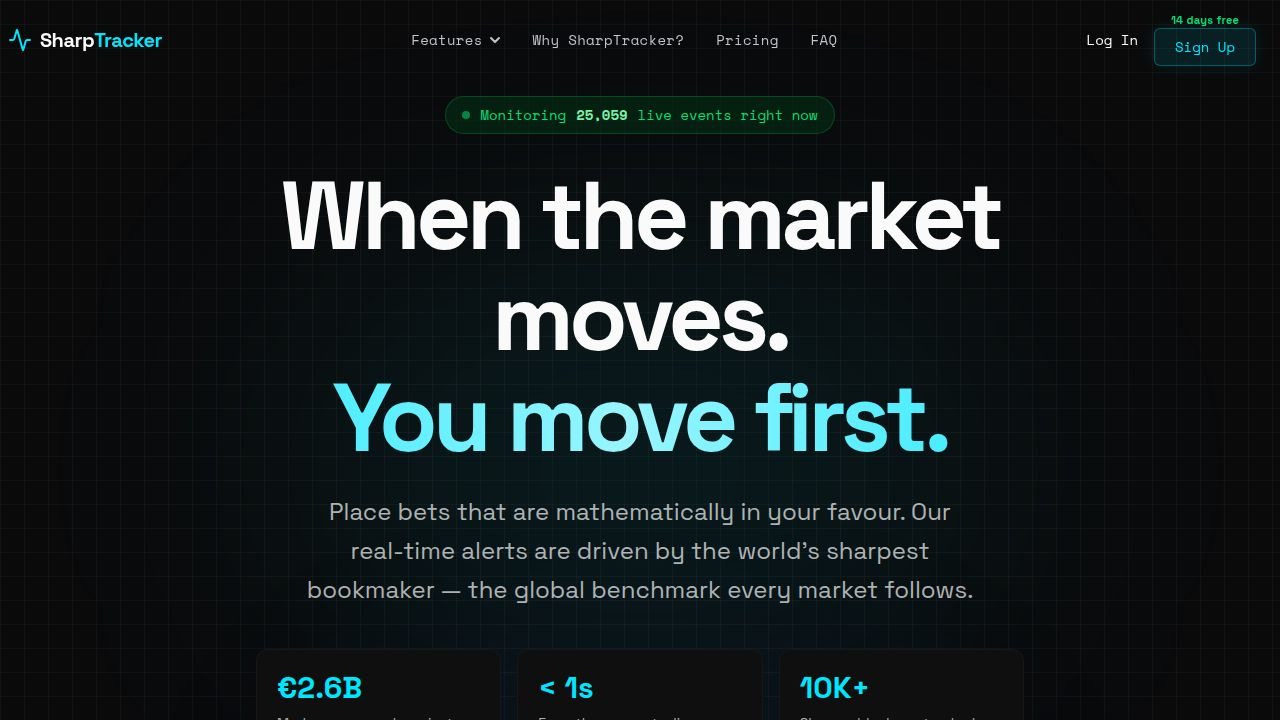
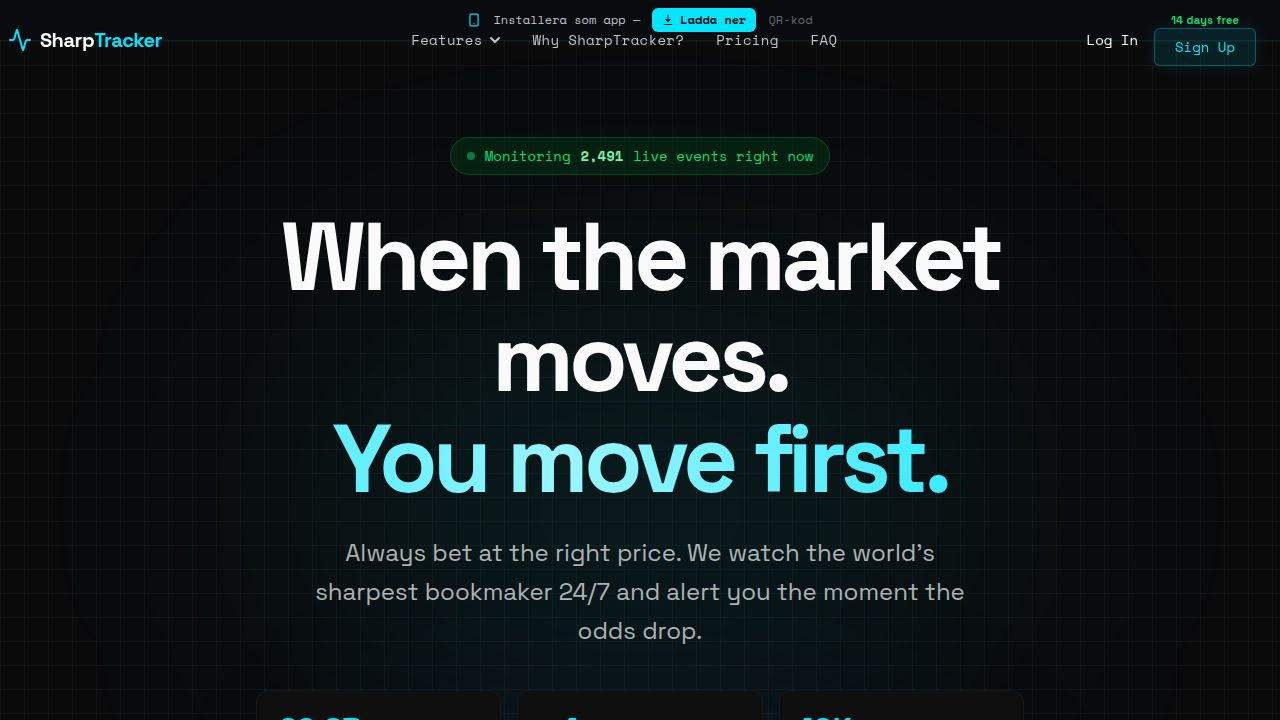
Add a prominent download button to install the web application
Enhance the landing page with a PWA install banner that includes a "Ladda ner" button to trigger native installation on supported browsers, and update the install modal to provide a similar direct installation option alongside the QR code.

Replit-Commit-Author: Agent
Replit-Commit-Session-Id: cb61762b-fd09-445e-b04e-2fa3f1b9b9b2
Replit-Commit-Checkpoint-Type: full_checkpoint
Replit-Commit-Event-Id: 24c28a29-0f7c-4e3b-a59e-2dac77a13e88
Replit-Commit-Screenshot-Url: https://storage.googleapis.com/screenshot-production-us-central1/84e61830-7611-4d35-8623-77d057b02e4e/cb61762b-fd09-445e-b04e-2fa3f1b9b9b2/oA3tUHl
Replit-Helium-Checkpoint-Created: true

diff --git a/artifacts/landing/src/InstallAppModal.tsx b/artifacts/landing/src/InstallAppModal.tsx
@@ -1,15 +1,23 @@
 import { useState, useEffect } from "react";
 import { QRCodeSVG } from "qrcode.react";
-import { X, Smartphone } from "lucide-react";
+import { X, Smartphone, Download } from "lucide-react";
 import { AnimatePresence, motion } from "framer-motion";
+
+interface BeforeInstallPromptEvent extends Event {
+  prompt(): Promise<void>;
+  userChoice: Promise<{ outcome: "accepted" | "dismissed" }>;
+}
 
 interface Props {
   open: boolean;
   onClose: () => void;
+  deferredPrompt?: BeforeInstallPromptEvent | null;
+  onNativeInstall?: () => Promise<void>;
 }
 
-export default function InstallAppModal({ open, onClose }: Props) {
+export default function InstallAppModal({ open, onClose, deferredPrompt, onNativeInstall }: Props) {
   const [appUrl, setAppUrl] = useState("");
+  const [installing, setInstalling] = useState(false);
 
   useEffect(() => {
     setAppUrl(window.location.origin + (import.meta.env.BASE_URL || "/"));
@@ -22,6 +30,16 @@ export default function InstallAppModal({ open, onClose }: Props) {
     return () => window.removeEventListener("keydown", onKey);
   }, [open, onClose]);
 
+  const handleNativeInstall = async () => {
+    if (!onNativeInstall) return;
+    setInstalling(true);
+    try {
+      await onNativeInstall();
+    } finally {
+      setInstalling(false);
+    }
+  };
+
   return (
     <AnimatePresence>
       {open && (
@@ -33,10 +51,8 @@ export default function InstallAppModal({ open, onClose }: Props) {
           transition={{ duration: 0.18 }}
           onClick={onClose}
         >
-          {/* Backdrop */}
           <div className="absolute inset-0 bg-black/70 backdrop-blur-sm" />
 
-          {/* Modal card */}
           <motion.div
             className="relative z-10 w-full max-w-sm bg-[#0d0e14] border border-white/10 rounded-2xl shadow-[0_24px_80px_rgba(0,0,0,0.8)] overflow-hidden"
             initial={{ scale: 0.92, opacity: 0, y: 16 }}
@@ -50,7 +66,7 @@ export default function InstallAppModal({ open, onClose }: Props) {
               <div className="flex items-center gap-2.5">
                 <img src="/icon-192.png" alt="SharpTracker" className="w-8 h-8 rounded-lg" />
                 <div>
-                  <p className="text-sm font-semibold text-foreground leading-tight">Install the app</p>
+                  <p className="text-sm font-semibold text-foreground leading-tight">Installera appen</p>
                   <p className="text-[11px] text-muted-foreground font-mono">sharptracker.io</p>
                 </div>
               </div>
@@ -62,16 +78,37 @@ export default function InstallAppModal({ open, onClose }: Props) {
               </button>
             </div>
 
+            {/* Native install button — shown when browser supports it */}
+            {deferredPrompt && (
+              <div className="px-5 pt-5">
+                <button
+                  onClick={handleNativeInstall}
+                  disabled={installing}
+                  className="w-full flex items-center justify-center gap-2 bg-primary hover:bg-primary/90 disabled:opacity-60 text-background font-semibold text-sm rounded-xl py-3 transition-colors"
+                >
+                  <Download className="w-4 h-4" />
+                  {installing ? "Installerar..." : "Installera SharpTracker"}
+                </button>
+                <div className="flex items-center gap-3 mt-4 mb-2">
+                  <div className="flex-1 h-px bg-white/8" />
+                  <span className="text-[10px] font-mono text-muted-foreground/50 uppercase tracking-widest">eller skanna QR</span>
+                  <div className="flex-1 h-px bg-white/8" />
+                </div>
+              </div>
+            )}
+
             {/* QR Code */}
-            <div className="flex flex-col items-center py-6 gap-3 px-5">
-              <p className="text-xs font-mono text-muted-foreground text-center mb-1">
-                Scan with your phone to open SharpTracker
-              </p>
+            <div className="flex flex-col items-center py-5 gap-3 px-5">
+              {!deferredPrompt && (
+                <p className="text-xs font-mono text-muted-foreground text-center mb-1">
+                  Skanna med din telefon för att öppna SharpTracker
+                </p>
+              )}
               <div className="bg-white rounded-xl p-3 shadow-lg">
                 {appUrl && (
                   <QRCodeSVG
                     value={appUrl}
-                    size={180}
+                    size={160}
                     bgColor="#ffffff"
                     fgColor="#0a0b0f"
                     level="H"
@@ -79,8 +116,8 @@ export default function InstallAppModal({ open, onClose }: Props) {
                       src: "/icon-192.png",
                       x: undefined,
                       y: undefined,
-                      height: 36,
-                      width: 36,
+                      height: 32,
+                      width: 32,
                       opacity: 1,
                       excavate: true,
                     }}
@@ -92,20 +129,20 @@ export default function InstallAppModal({ open, onClose }: Props) {
             {/* Install steps */}
             <div className="px-5 pb-6 space-y-3">
               <p className="text-[10px] font-mono text-muted-foreground/60 uppercase tracking-widest mb-2">
-                How to install
+                Hur man installerar (iOS / Safari)
               </p>
               {[
                 {
                   step: "1",
                   content: (
                     <>
-                      Tap{" "}
+                      Tryck på{" "}
                       <span className="inline-flex items-center justify-center w-6 h-6 bg-white/10 border border-white/15 rounded-md mx-0.5 align-middle">
                         <svg viewBox="0 0 24 24" fill="currentColor" className="w-3.5 h-3.5 text-foreground">
                           <path d="M12 2l-3 4h2v7h2V6h2l-3-4zm-6 14v3a1 1 0 001 1h10a1 1 0 001-1v-3h-2v2H8v-2H6z"/>
                         </svg>
                       </span>{" "}
-                      in the browser menu
+                      i webbläsarmenyn
                     </>
                   ),
                 },
@@ -113,9 +150,9 @@ export default function InstallAppModal({ open, onClose }: Props) {
                   step: "2",
                   content: (
                     <>
-                      Scroll down and tap{" "}
+                      Scrolla ner och tryck på{" "}
                       <span className="inline-flex items-center gap-1 bg-white/10 border border-white/15 rounded-md px-1.5 py-0.5 text-[11px] font-mono text-foreground align-middle mx-0.5">
-                        Add to Home Screen
+                        Lägg till på hemskärmen
                       </span>
                     </>
                   ),
@@ -124,9 +161,9 @@ export default function InstallAppModal({ open, onClose }: Props) {
                   step: "3",
                   content: (
                     <>
-                      Look for the{" "}
+                      Hitta{" "}
                       <img src="/icon-192.png" alt="" className="inline w-5 h-5 rounded-md align-middle mx-0.5" />{" "}
-                      icon on your home screen
+                      ikonen på din hemskärm
                     </>
                   ),
                 },
@@ -138,6 +175,16 @@ export default function InstallAppModal({ open, onClose }: Props) {
                   <p className="text-sm text-foreground/80 leading-snug">{content}</p>
                 </div>
               ))}
+            </div>
+
+            {/* Bottom note */}
+            <div className="px-5 pb-5">
+              <div className="flex items-center gap-2 rounded-xl bg-white/3 border border-white/6 px-3 py-2.5">
+                <Smartphone className="w-3.5 h-3.5 text-primary shrink-0" />
+                <p className="text-[11px] font-mono text-muted-foreground">
+                  Fungerar på iOS och Android · Gratis · Inga notis-behörigheter krävs
+                </p>
+              </div>
             </div>
           </motion.div>
         </motion.div>

diff --git a/artifacts/landing/src/App.tsx b/artifacts/landing/src/App.tsx
@@ -2282,26 +2282,78 @@ function SharpDataSection() {
 
 export const InstallModalContext = React.createContext<() => void>(() => {});
 
+interface BeforeInstallPromptEvent extends Event {
+  prompt(): Promise<void>;
+  userChoice: Promise<{ outcome: "accepted" | "dismissed" }>;
+}
+
 function AppContent() {
   const [installOpen, setInstallOpen] = useState(false);
+  const [deferredPrompt, setDeferredPrompt] = useState<BeforeInstallPromptEvent | null>(null);
+  const [isInstalled, setIsInstalled] = useState(false);
+
+  useEffect(() => {
+    const handler = (e: Event) => {
+      e.preventDefault();
+      setDeferredPrompt(e as BeforeInstallPromptEvent);
+    };
+    window.addEventListener("beforeinstallprompt", handler);
+
+    const installedHandler = () => setIsInstalled(true);
+    window.addEventListener("appinstalled", installedHandler);
+
+    if (window.matchMedia("(display-mode: standalone)").matches) {
+      setIsInstalled(true);
+    }
+
+    return () => {
+      window.removeEventListener("beforeinstallprompt", handler);
+      window.removeEventListener("appinstalled", installedHandler);
+    };
+  }, []);
+
   const openInstall = () => setInstallOpen(true);
+
+  const handleInstallClick = async () => {
+    if (deferredPrompt) {
+      await deferredPrompt.prompt();
+      const { outcome } = await deferredPrompt.userChoice;
+      if (outcome === "accepted") {
+        setDeferredPrompt(null);
+        setIsInstalled(true);
+      }
+    } else {
+      setInstallOpen(true);
+    }
+  };
 
   return (
     <InstallModalContext.Provider value={openInstall}>
       <div className="min-h-[100dvh] bg-background text-foreground font-sans selection:bg-primary/30 selection:text-primary">
         {/* Top install banner */}
-        <div className="w-full bg-[#0a0b0f] border-b border-primary/10 py-2 px-4 flex items-center justify-center gap-2.5 z-40 relative">
-          <Smartphone className="w-3.5 h-3.5 text-primary shrink-0" />
-          <span className="text-xs font-mono text-muted-foreground">
-            Install the mobile app —{" "}
-          </span>
-          <button
-            onClick={openInstall}
-            className="text-xs font-mono text-primary underline underline-offset-2 hover:text-primary/80 transition-colors"
-          >
-            Scan QR to add to Home Screen
-          </button>
-        </div>
+        {!isInstalled && (
+          <div className="w-full bg-[#0a0b0f] border-b border-primary/10 py-2 px-4 flex items-center justify-center gap-3 z-40 relative">
+            <Smartphone className="w-3.5 h-3.5 text-primary shrink-0" />
+            <span className="text-xs font-mono text-muted-foreground">
+              {deferredPrompt ? "Installera SharpTracker som app —" : "Installera som app —"}
+            </span>
+            <button
+              onClick={handleInstallClick}
+              className="inline-flex items-center gap-1.5 text-xs font-mono font-semibold text-background bg-primary hover:bg-primary/90 transition-colors px-2.5 py-1 rounded-md"
+            >
+              <svg className="w-3 h-3" viewBox="0 0 16 16" fill="currentColor">
+                <path d="M8 1v9M5 7l3 3 3-3M3 14h10" stroke="currentColor" strokeWidth="1.5" strokeLinecap="round" strokeLinejoin="round" fill="none"/>
+              </svg>
+              Ladda ner
+            </button>
+            <button
+              onClick={() => setInstallOpen(true)}
+              className="text-xs font-mono text-muted-foreground/50 hover:text-muted-foreground transition-colors"
+            >
+              QR-kod
+            </button>
+          </div>
+        )}
 
         <Navbar />
         <main>
@@ -2316,7 +2368,22 @@ function AppContent() {
           <CTASection />
         </main>
         <Footer />
-        <InstallAppModal open={installOpen} onClose={() => setInstallOpen(false)} />
+        <InstallAppModal
+          open={installOpen}
+          onClose={() => setInstallOpen(false)}
+          deferredPrompt={deferredPrompt}
+          onNativeInstall={async () => {
+            if (deferredPrompt) {
+              await deferredPrompt.prompt();
+              const { outcome } = await deferredPrompt.userChoice;
+              if (outcome === "accepted") {
+                setDeferredPrompt(null);
+                setIsInstalled(true);
+                setInstallOpen(false);
+              }
+            }
+          }}
+        />
       </div>
     </InstallModalContext.Provider>
   );
